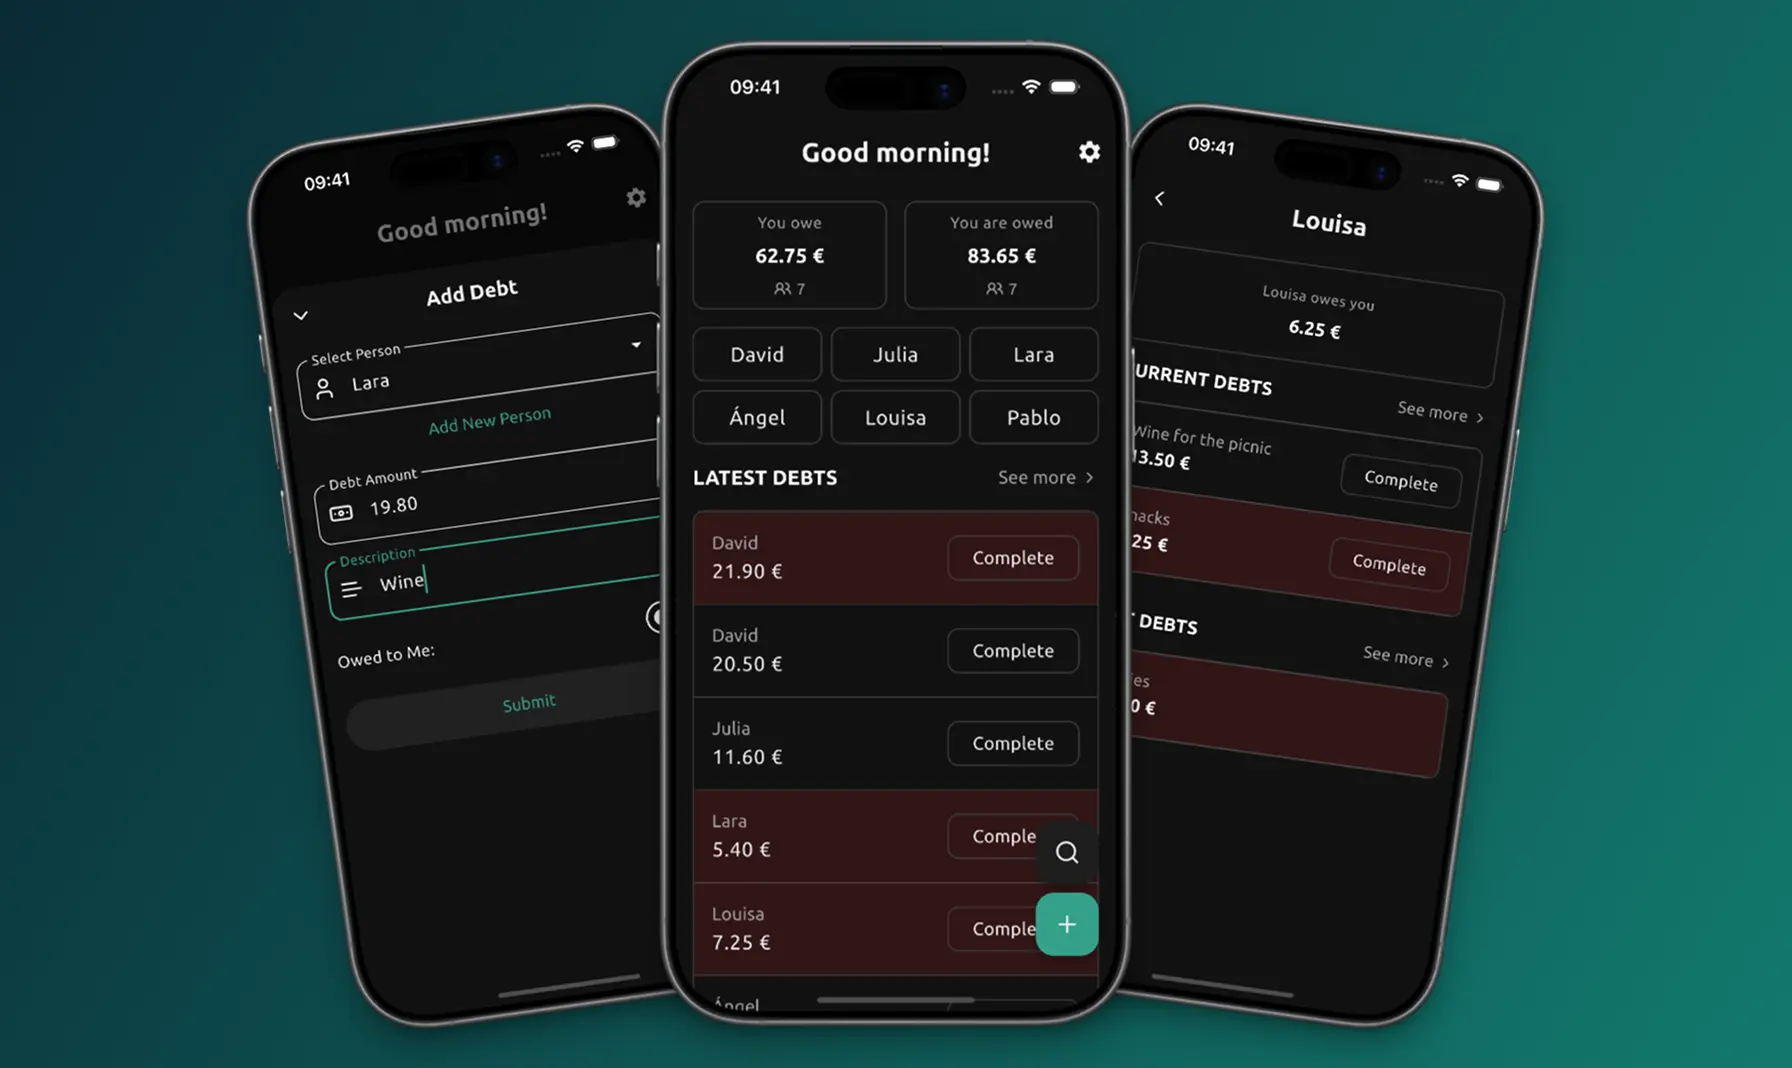
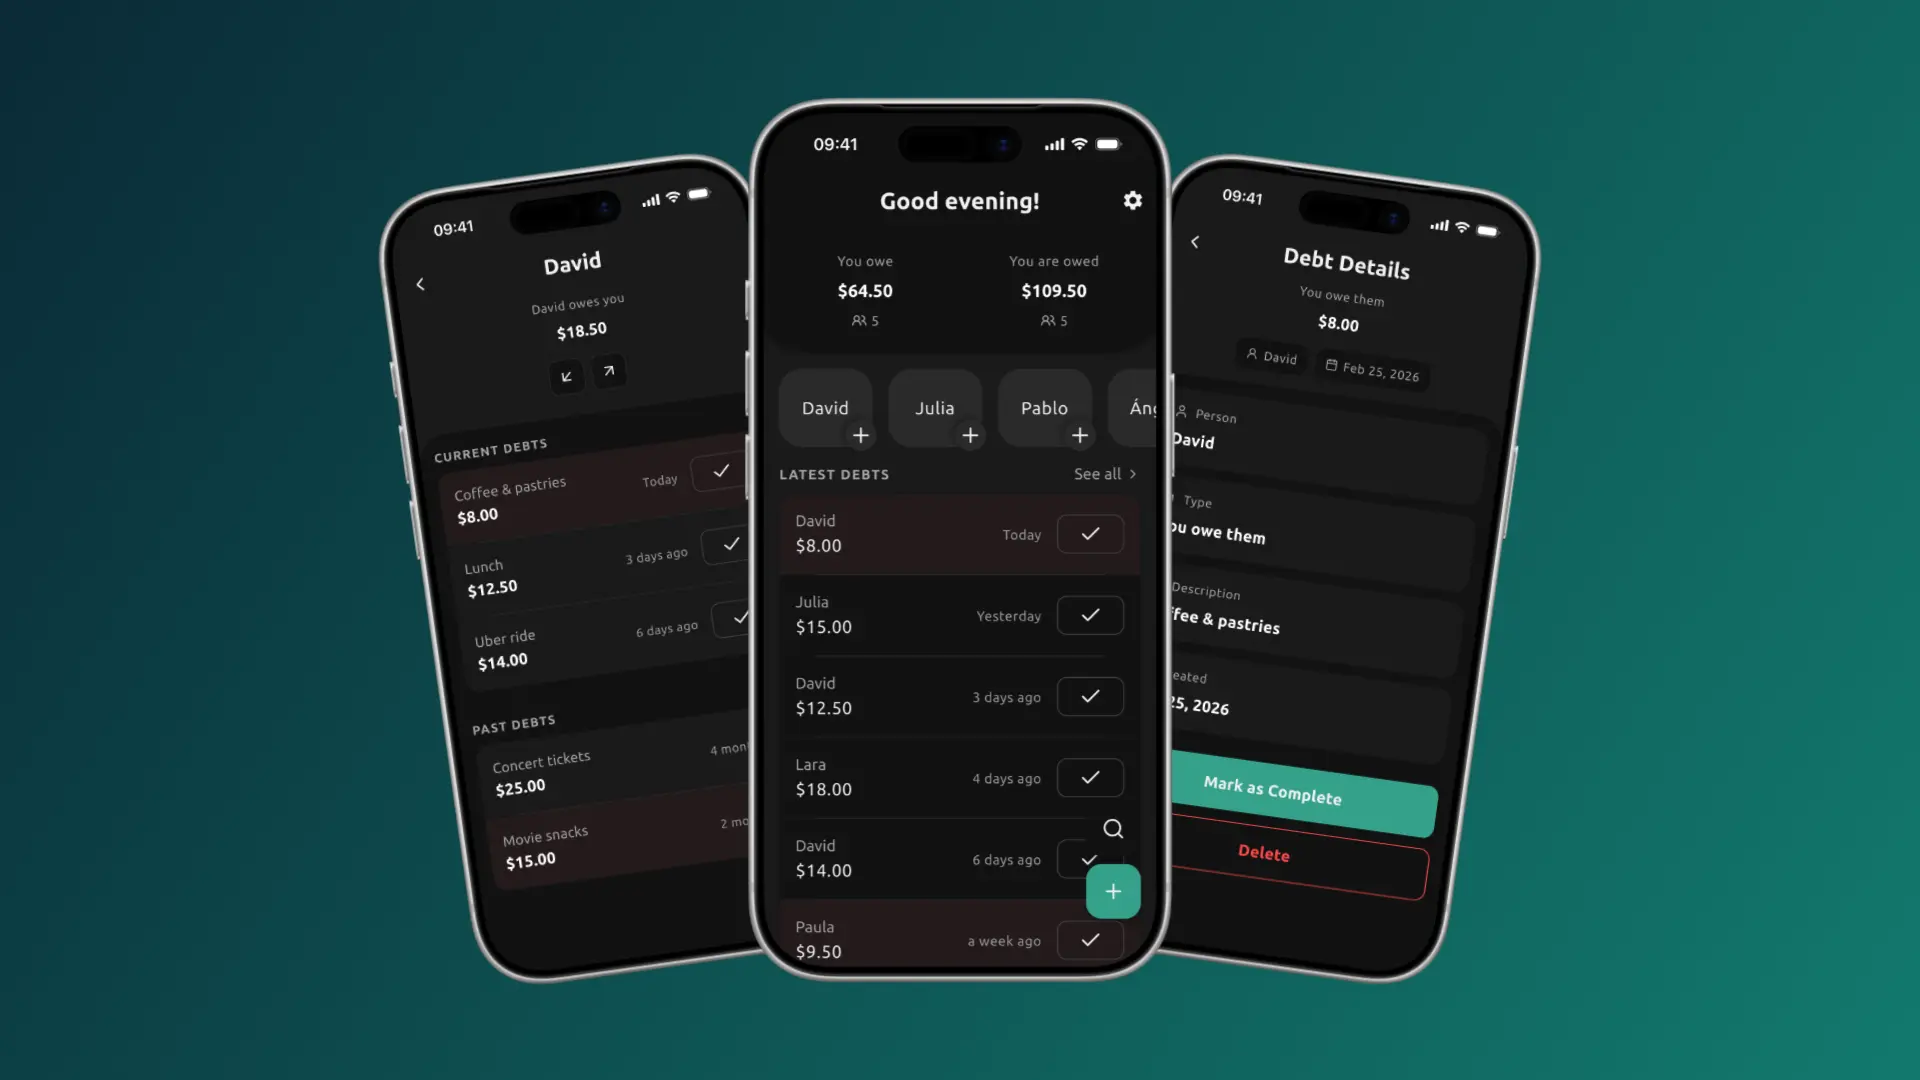
Fix Astro content collections for v6

Changed region(s): [[0.125, 0.0309, 0.875, 0.9888]]

diff --git a/src/content.config.ts b/src/content.config.ts
@@ -1,4 +1,6 @@
-import { z, defineCollection } from "astro:content";
+import { defineCollection } from "astro:content";
+import { glob } from "astro/loaders";
+import { z } from "astro/zod";
 
 export const ProjectItemSchema = z.object({
   name: z.string(),
@@ -6,7 +8,7 @@ export const ProjectItemSchema = z.object({
   description: z.union([z.string(), z.array(z.string())]),
   summary: z.union([z.string(), z.array(z.string())]).optional(),
   tech: z.array(z.string()).optional(),
-  links: z.record(z.string()),
+  links: z.record(z.string(), z.string()),
   type: z.enum(["App", "Website", "SaaS", "Web App", "Business", "Startup"]),
   featured: z.optional(z.boolean()),
   active: z.boolean().default(true),
@@ -16,7 +18,7 @@ export const ProjectItemSchema = z.object({
 export const BlogPostSchema = z.object({
   title: z.string(),
   description: z.string(),
-  date: z.date(),
+  date: z.coerce.date(),
   tags: z.array(z.string()).optional(),
   project: z.string().optional(),
   projects: z.array(z.string()).optional(),
@@ -24,12 +26,39 @@ export const BlogPostSchema = z.object({
   draft: z.boolean().default(false),
 });
 
-const projectCollection = defineCollection({
-  type: "content",
+const projectsCollection = defineCollection({
+  loader: glob({
+    base: "./src/content/projects",
+    pattern: "**/*.{md,mdx}",
+    generateId: ({ entry }) => entry.replace(/\.(md|mdx)$/, ""),
+  }),
+  schema: ProjectItemSchema,
+});
+
+const proyectosCollection = defineCollection({
+  loader: glob({
+    base: "./src/content/proyectos",
+    pattern: "**/*.{md,mdx}",
+    generateId: ({ entry }) => entry.replace(/\.(md|mdx)$/, ""),
+  }),
+  schema: ProjectItemSchema,
 });
 
 const blogCollection = defineCollection({
-  type: "content",
+  loader: glob({
+    base: "./src/content/blog",
+    pattern: "**/*.{md,mdx}",
+    generateId: ({ entry }) => entry.replace(/\.(md|mdx)$/, ""),
+  }),
+  schema: BlogPostSchema,
+});
+
+const blogEsCollection = defineCollection({
+  loader: glob({
+    base: "./src/content/blog_es",
+    pattern: "**/*.{md,mdx}",
+    generateId: ({ entry }) => entry.replace(/\.(md|mdx)$/, ""),
+  }),
   schema: BlogPostSchema,
 });
 
@@ -37,8 +66,8 @@ export type WorkItem = z.infer<typeof ProjectItemSchema>;
 export type BlogPost = z.infer<typeof BlogPostSchema>;
 
 export const collections = {
-  projects: projectCollection,
-  proyectos: projectCollection,
+  projects: projectsCollection,
+  proyectos: proyectosCollection,
   blog: blogCollection,
-  blog_es: blogCollection,
+  blog_es: blogEsCollection,
 };

diff --git a/src/pages/es/rss.xml.ts b/src/pages/es/rss.xml.ts
@@ -17,7 +17,7 @@ export async function GET(context: APIContext) {
       title: post.data.title,
       description: post.data.description,
       pubDate: post.data.date,
-      link: `/es/blog/${post.slug}/`,
+      link: `/es/blog/${post.id}/`,
       categories: post.data.tags || [],
       author: post.data.author,
     })),

diff --git a/src/pages/rss.xml.ts b/src/pages/rss.xml.ts
@@ -17,7 +17,7 @@ export async function GET(context: APIContext) {
       title: post.data.title,
       description: post.data.description,
       pubDate: post.data.date,
-      link: `/blog/${post.slug}/`,
+      link: `/blog/${post.id}/`,
       categories: post.data.tags || [],
       author: post.data.author,
     })),